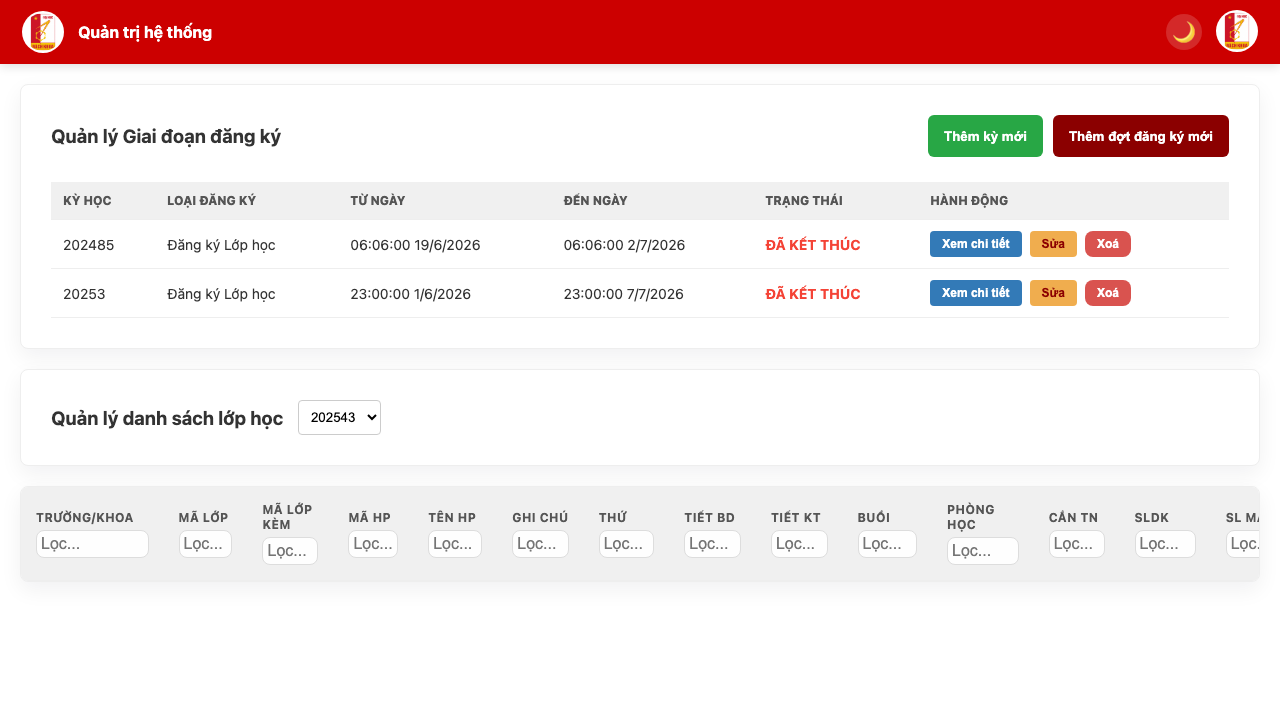
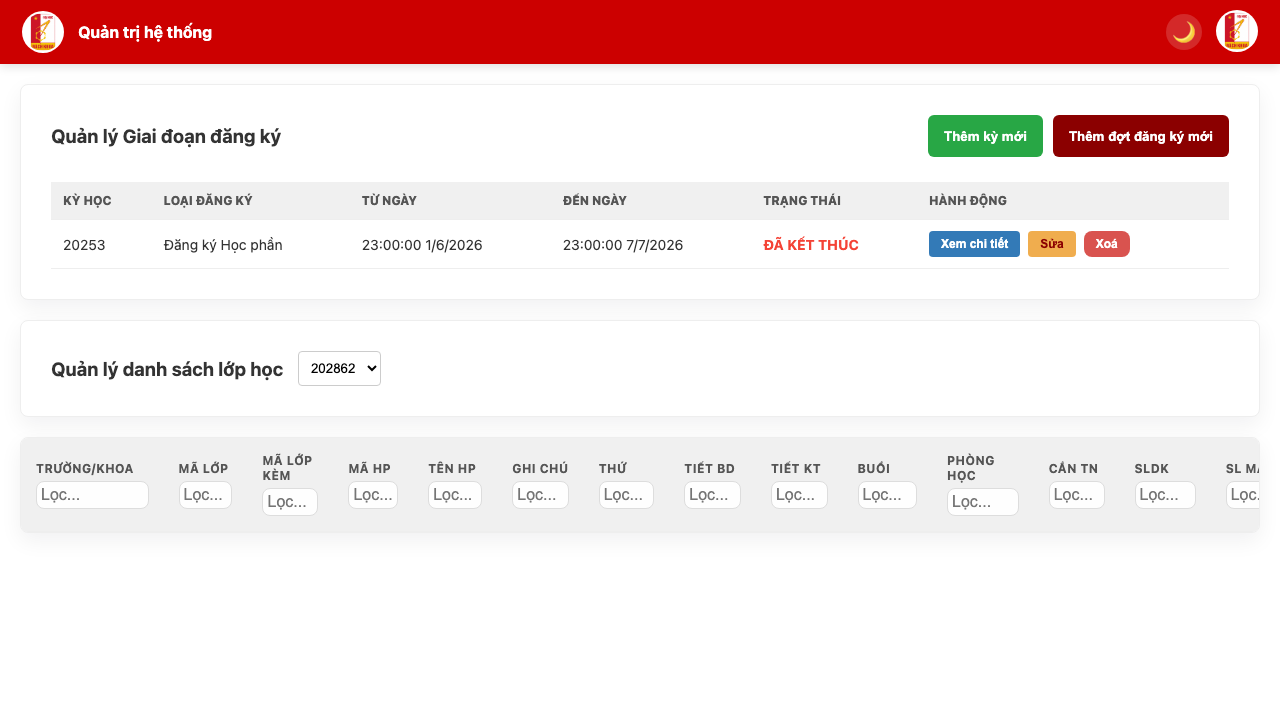
Fill database

diff --git a/playwright-report/index.html b/playwright-report/index.html
@@ -87,4 +87,4 @@ Error generating stack: `+l.message+`
     <div id='root'></div>
   </body>
 </html>
[2 lines of base64/hex data omitted]

diff --git a/vitest.config.ts b/vitest.config.ts
@@ -3,6 +3,7 @@ import path from 'path';
 
 export default defineConfig({
   test: {
+    exclude: ['tests/e2e/**', 'node_modules/**', 'dist/**', 'out/**'],
     globals: true,
     environmentMatchGlobs: [
       ['tests/integration/server/**/*.ts', 'node'],

diff --git a/test-results/admin-management-Admin-Man-1847f-edit-a-class-course-details-chromium/error-context.md b/test-results/admin-management-Admin-Man-1847f-edit-a-class-course-details-chromium/error-context.md
@@ -45,19 +45,9 @@ Call log:
         - columnheader "Trạng thái"
         - columnheader "Hành động"
     - rowgroup:
-      - row "202485 Đăng ký Lớp học 06:06:00 19/6/2026 06:06:00 2/7/2026 ĐÃ KẾT THÚC Xem chi tiết Sửa Xoá":
-        - cell "202485"
-        - cell "Đăng ký Lớp học"
-        - cell "06:06:00 19/6/2026"
-        - cell "06:06:00 2/7/2026"
-        - cell "ĐÃ KẾT THÚC"
-        - cell "Xem chi tiết Sửa Xoá":
-          - button "Xem chi tiết"
-          - button "Sửa"
-          - button "Xoá"
-      - row "20253 Đăng ký Lớp học 23:00:00 1/6/2026 23:00:00 7/7/2026 ĐÃ KẾT THÚC Xem chi tiết Sửa Xoá":
+      - row "20253 Đăng ký Học phần 23:00:00 1/6/2026 23:00:00 7/7/2026 ĐÃ KẾT THÚC Xem chi tiết Sửa Xoá":
         - cell "20253"
-        - cell "Đăng ký Lớp học"
+        - cell "Đăng ký Học phần"
         - cell "23:00:00 1/6/2026"
         - cell "23:00:00 7/7/2026"
         - cell "ĐÃ KẾT THÚC"
@@ -67,8 +57,8 @@ Call log:
           - button "Xoá"
   - heading "Quản lý danh sách lớp học" [level=3]
   - combobox:
-    - option "202543" [selected]
-    - option "202485"
+    - option "202862" [selected]
+    - option "202265"
     - option "20253"
     - option "20252"
     - option "20251"